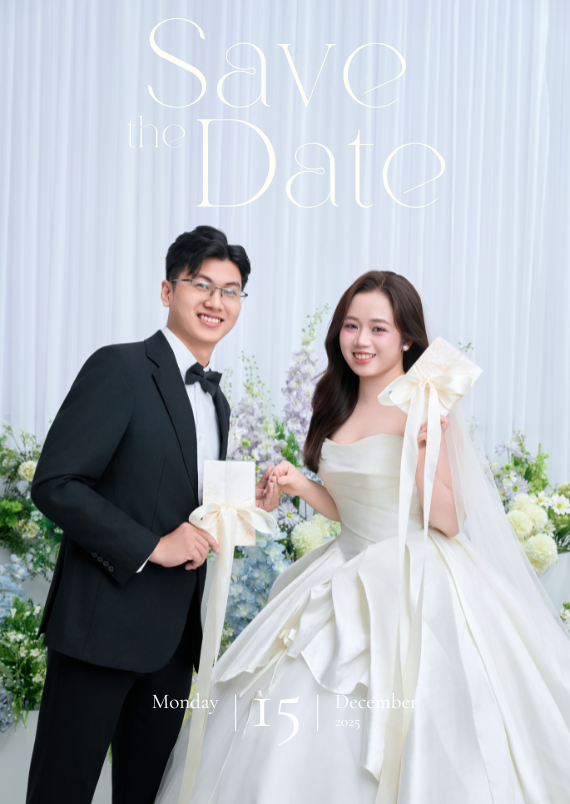
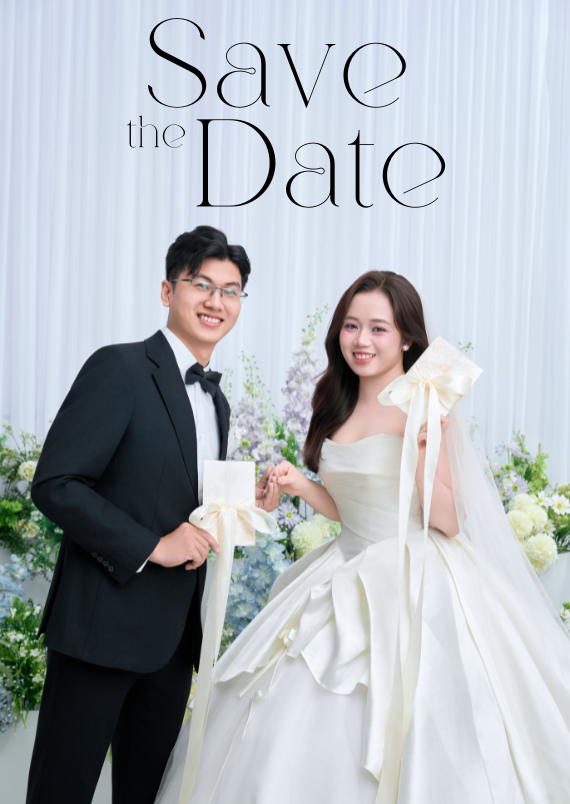
update

diff --git a/index.html b/index.html
@@ -355,7 +355,8 @@
                     MIN_DURATION: 6,
                     MAX_DURATION: 12,
                     SPAWN_INTERVAL: 1000,
-                    MAX_DROPS: 200
+                    // set to 0 to disable spawning drops (turn off the falling hearts effect)
+                    MAX_DROPS: 0
                 };
 
                 let timer = null;

diff --git a/gallery.html b/gallery.html
@@ -450,7 +450,7 @@
                 MIN_DURATION: 6,
                 MAX_DURATION: 12,
                 SPAWN_INTERVAL: 1000,
-                MAX_DROPS: 200
+                MAX_DROPS: 0
             };
 
             let timer = null;
